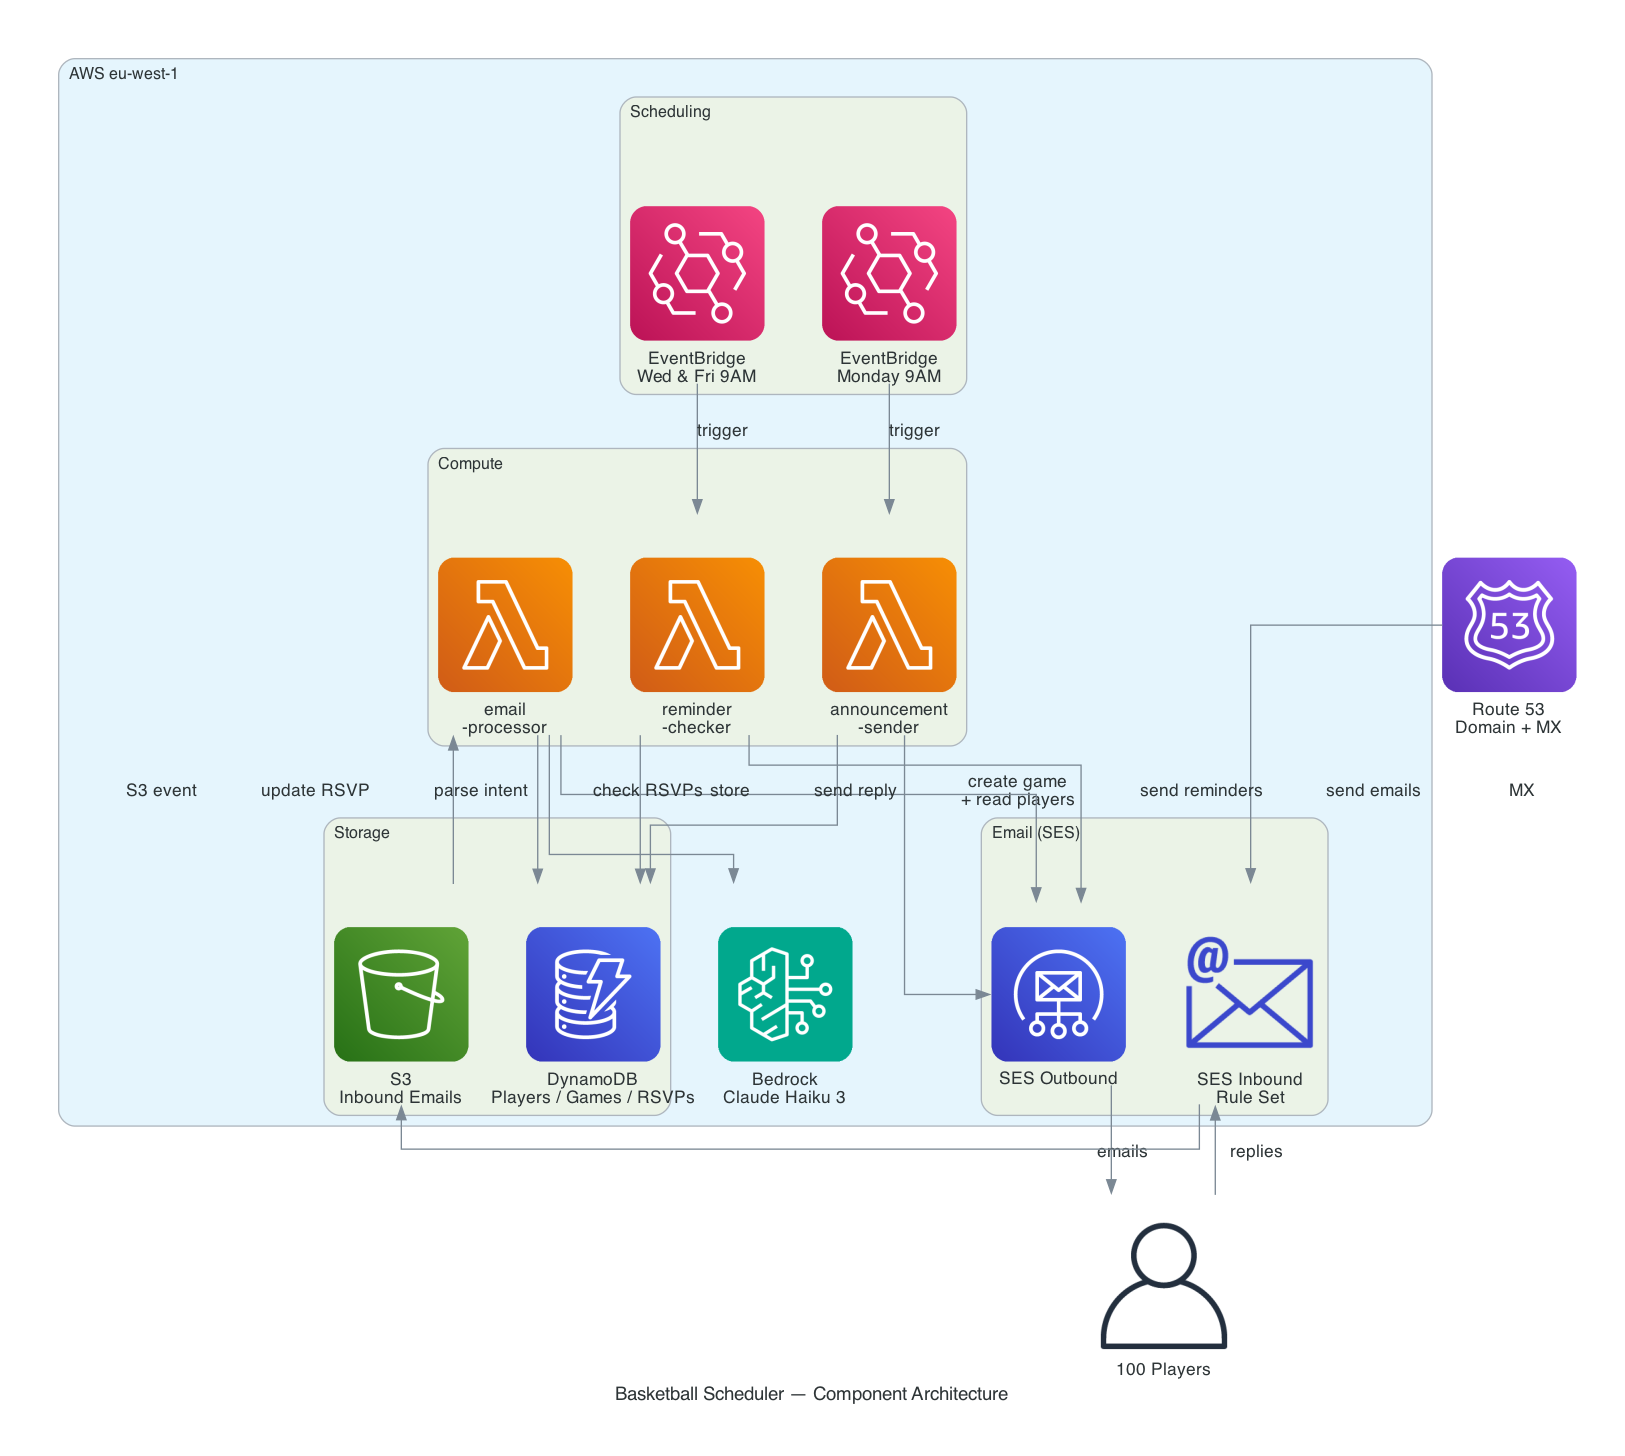
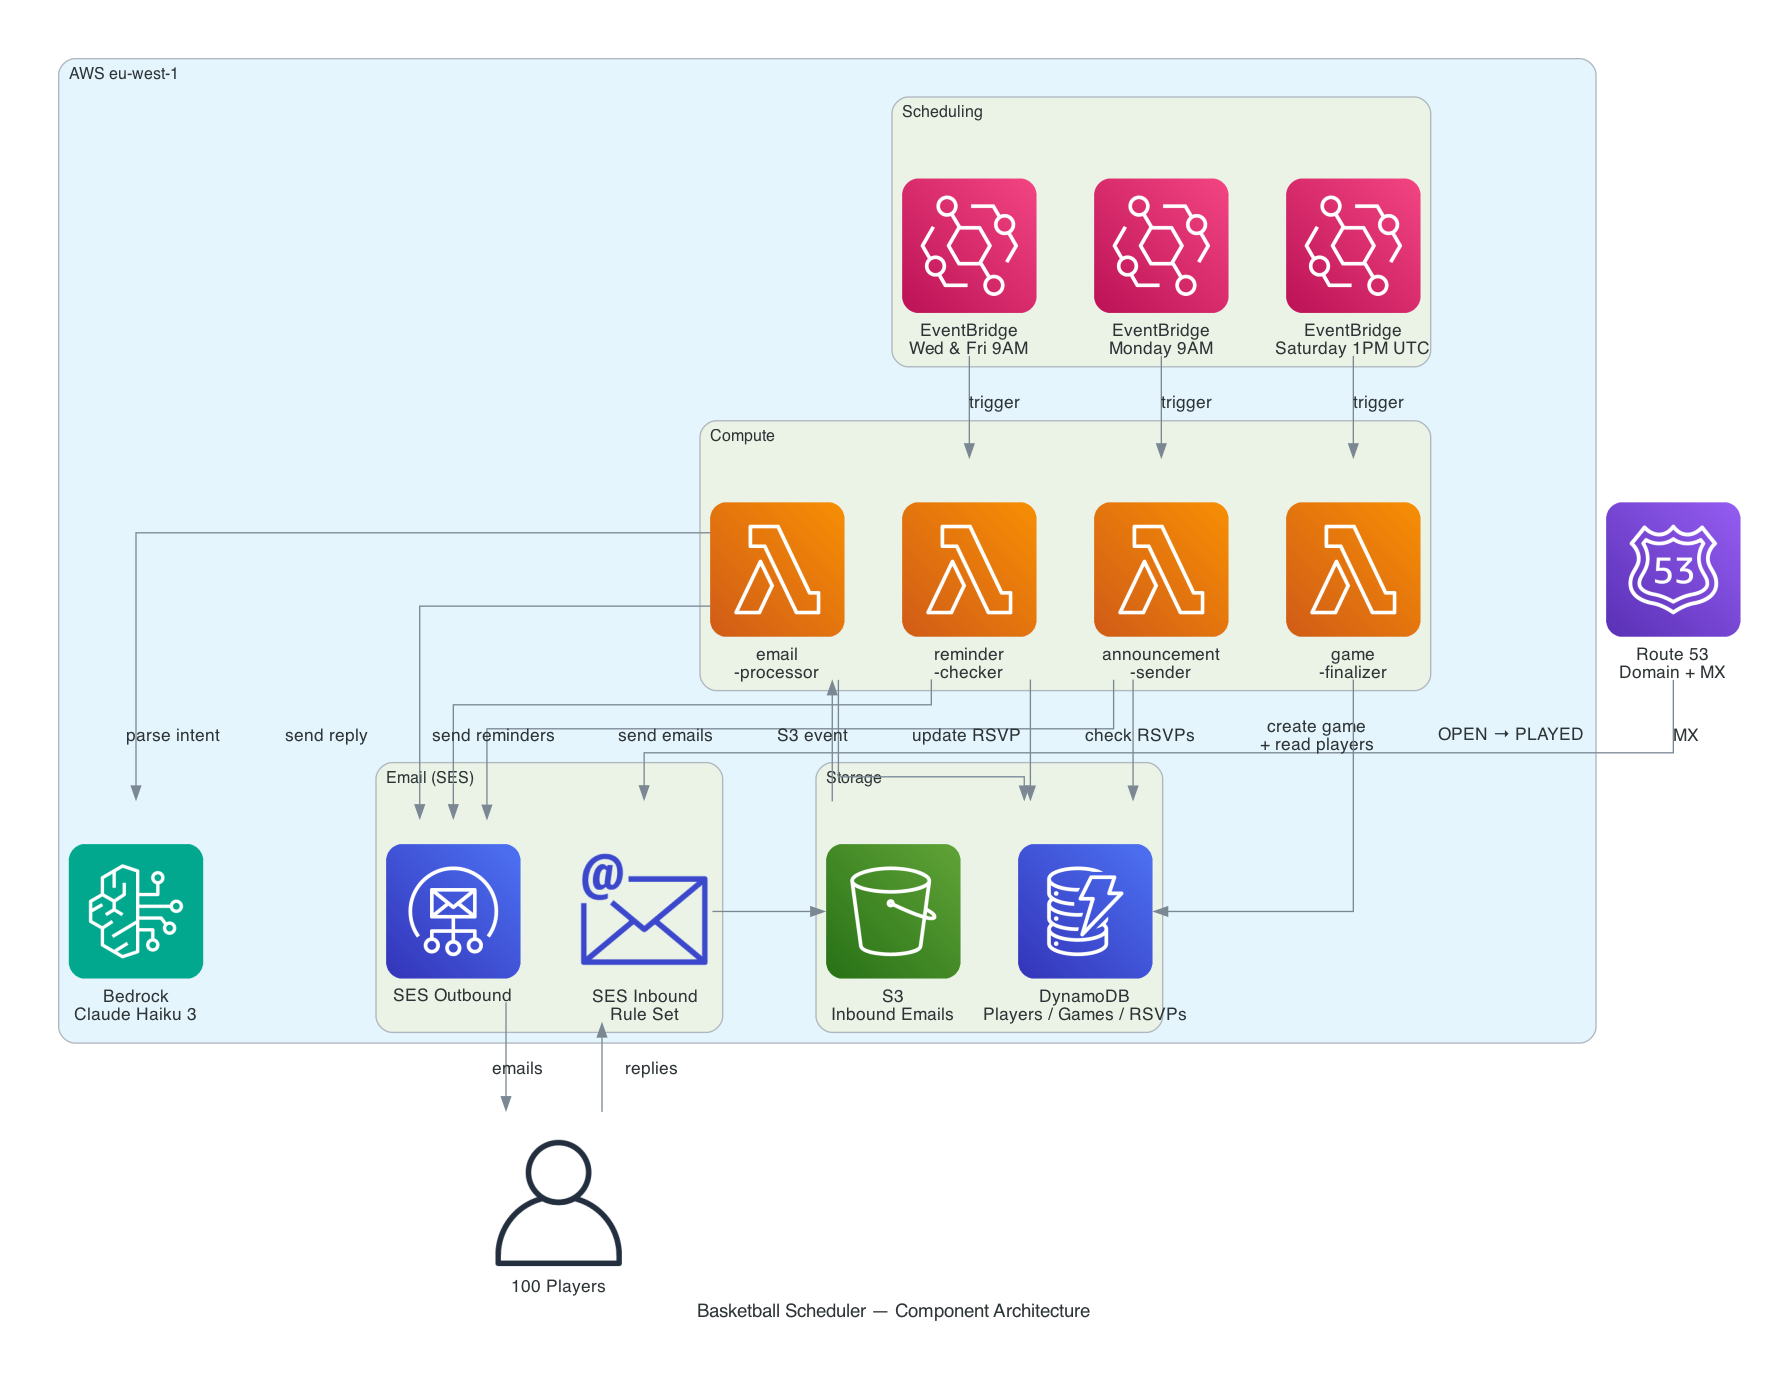
Update architecture diagrams for game-finalizer Lambda
- Regenerated diagram 1 (component architecture) to include game-finalizer
  Lambda and Saturday 1PM UTC EventBridge trigger
- Added diagram 5 (game finalisation flow) showing OPEN→PLAYED transition
- Renumbered data model diagram from 05 to 06
- Updated architecture.md diagram references and generate_diagrams.py

diff --git a/docs/generate_diagrams.py b/docs/generate_diagrams.py
@@ -38,11 +38,13 @@ def diagram_1_component_architecture():
             with Cluster("Scheduling"):
                 eb_mon = Eventbridge("EventBridge\nMonday 9AM")
                 eb_wf = Eventbridge("EventBridge\nWed & Fri 9AM")
+                eb_sat = Eventbridge("EventBridge\nSaturday 1PM UTC")
 
             with Cluster("Compute"):
                 fn_announce = Lambda("announcement\n-sender")
                 fn_email = Lambda("email\n-processor")
                 fn_remind = Lambda("reminder\n-checker")
+                fn_finalize = Lambda("game\n-finalizer")
 
             with Cluster("Storage"):
                 dynamo = Dynamodb("DynamoDB\nPlayers / Games / RSVPs")
@@ -57,6 +59,7 @@ def diagram_1_component_architecture():
         # Scheduling triggers
         eb_mon >> Edge(label="trigger") >> fn_announce
         eb_wf >> Edge(label="trigger") >> fn_remind
+        eb_sat >> Edge(label="trigger") >> fn_finalize
 
         # Announcement sender
         fn_announce >> Edge(label="create game\n+ read players") >> dynamo
@@ -65,6 +68,9 @@ def diagram_1_component_architecture():
         # Reminder checker
         fn_remind >> Edge(label="check RSVPs") >> dynamo
         fn_remind >> Edge(label="send reminders") >> ses_out
+
+        # Game finalizer
+        fn_finalize >> Edge(label="OPEN → PLAYED") >> dynamo
 
         # Inbound email flow
         domain >> Edge(label="MX") >> ses_in
@@ -176,9 +182,37 @@ def diagram_4_reminder_flow():
 
 
 # ──────────────────────────────────────────────
-# Diagram 5 — Data Model
+# Diagram 5 — Game Finalisation Flow
 # ──────────────────────────────────────────────
-def diagram_5_data_model():
+def diagram_5_game_finalizer_flow():
+    with Diagram(
+        "Game Finalisation Flow",
+        filename=os.path.join(OUTPUT_DIR, "05_game_finalizer_flow"),
+        show=False,
+        direction="LR",
+        graph_attr={"fontsize": "14", "bgcolor": "white", "pad": "0.5"},
+    ):
+        eb = Eventbridge("EventBridge\nSaturday 1PM UTC")
+        fn = Lambda("game\n-finalizer")
+        dynamo = Dynamodb("DynamoDB")
+
+        eb >> Edge(label="1. trigger") >> fn
+        fn >> Edge(label="2. getGameStatus(today)") >> dynamo
+        fn >> Edge(
+            label="3. if OPEN → PLAYED",
+            color="green",
+        ) >> dynamo
+        fn >> Edge(
+            label="3. if CANCELLED/PLAYED\n→ no-op",
+            style="dashed",
+            color="gray",
+        ) >> dynamo
+
+
+# ──────────────────────────────────────────────
+# Diagram 6 — Data Model
+# ──────────────────────────────────────────────
+def diagram_6_data_model():
     """Uses graphviz directly to draw the two-table DynamoDB data model."""
     import graphviz
 
@@ -232,19 +266,21 @@ def diagram_5_data_model():
              penwidth="2", style="dashed")
     dot.edge("games", "examples", label="", style="dotted", color="#b58900", arrowhead="none")
 
-    output_path = os.path.join(OUTPUT_DIR, "05_data_model")
+    output_path = os.path.join(OUTPUT_DIR, "06_data_model")
     dot.render(output_path, cleanup=True)
 
 
 if __name__ == "__main__":
-    print("Generating diagram 1/5 — Component Architecture...")
+    print("Generating diagram 1/6 — Component Architecture...")
     diagram_1_component_architecture()
-    print("Generating diagram 2/5 — Monday Announcement Flow...")
+    print("Generating diagram 2/6 — Monday Announcement Flow...")
     diagram_2_announcement_flow()
-    print("Generating diagram 3/5 — Player Reply Processing...")
+    print("Generating diagram 3/6 — Player Reply Processing...")
     diagram_3_email_processing()
-    print("Generating diagram 4/5 — Reminder & Cancellation Flow...")
+    print("Generating diagram 4/6 — Reminder & Cancellation Flow...")
     diagram_4_reminder_flow()
-    print("Generating diagram 5/5 — Data Model...")
-    diagram_5_data_model()
+    print("Generating diagram 5/6 — Game Finalisation Flow...")
+    diagram_5_game_finalizer_flow()
+    print("Generating diagram 6/6 — Data Model...")
+    diagram_6_data_model()
     print(f"\nDone! All PNGs saved to {OUTPUT_DIR}/")

diff --git a/docs/architecture.md b/docs/architecture.md
@@ -162,6 +162,8 @@ See you next week!
 
 ## 5. Game Finalisation Flow
 
+![Game Finalisation Flow](diagrams/05_game_finalizer_flow.png)
+
 ### Step-by-step
 
 1. **EventBridge fires** at 1:00 PM UTC every Saturday (cron: `cron(0 13 ? * SAT *)`) — after the game finishes
@@ -180,7 +182,7 @@ See you next week!
 
 ## 6. Data Model
 
-![Data Model](diagrams/05_data_model.png)
+![Data Model](diagrams/06_data_model.png)
 
 ### Two tables, no GSIs
 
